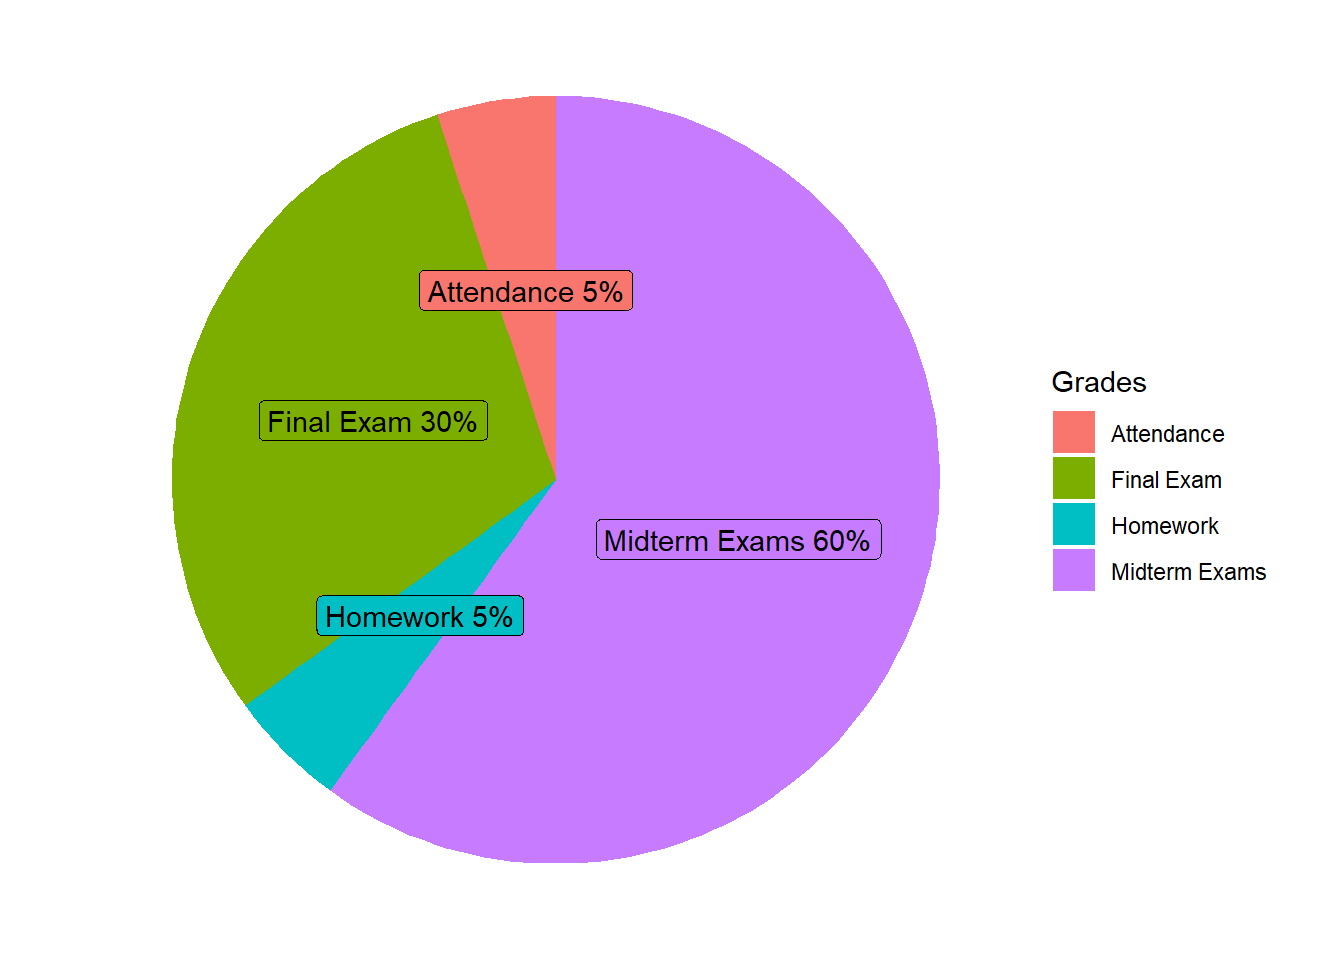
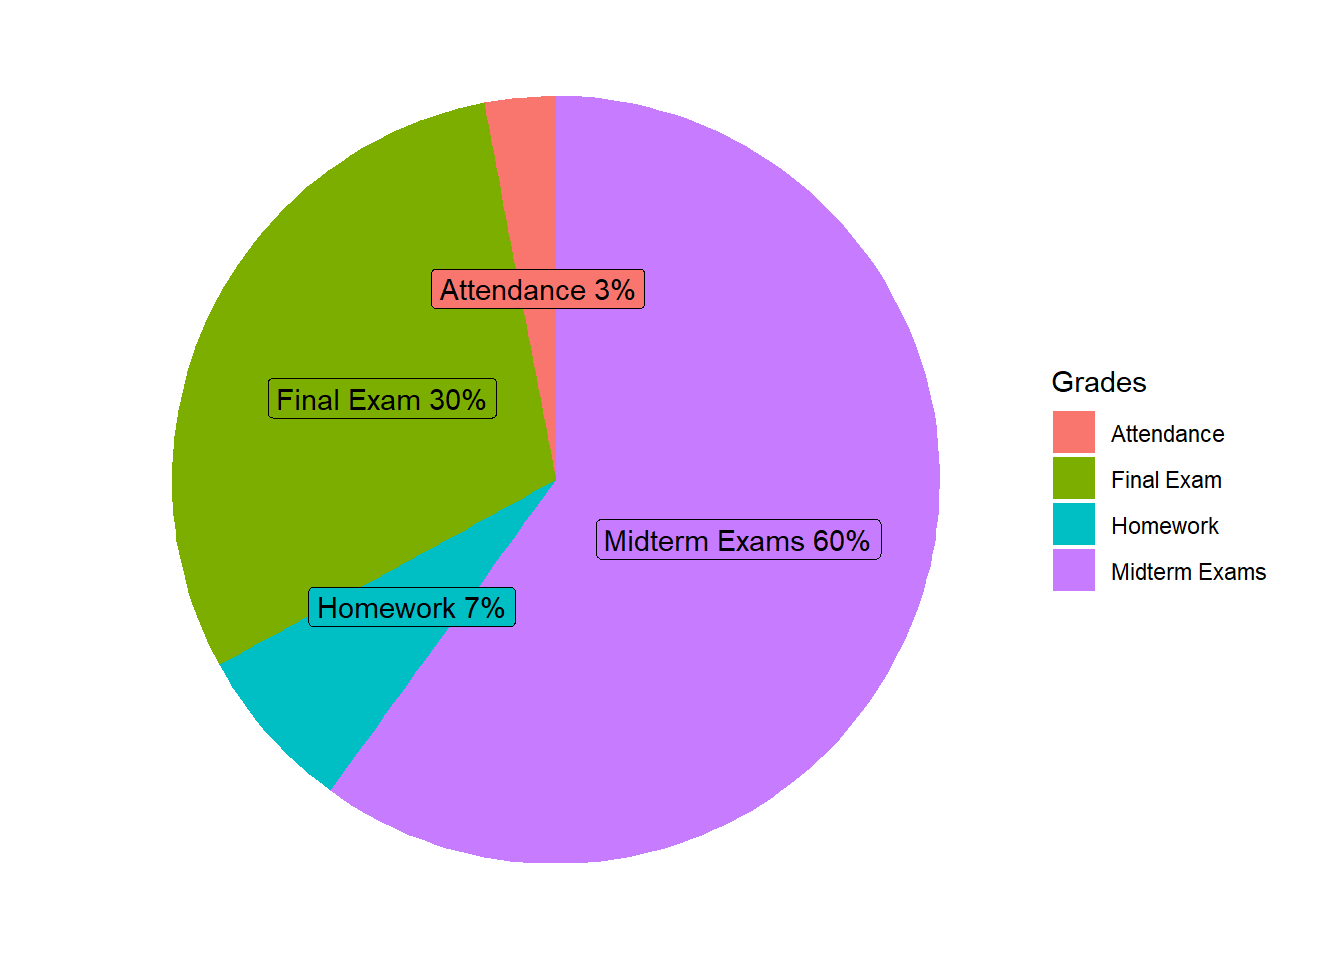
s

diff --git a/syllabus.html b/syllabus.html
@@ -51,9 +51,10 @@ ul.task-list li input[type="checkbox"] {
   <li><a href="#course-objectives" id="toc-course-objectives" class="nav-link" data-scroll-target="#course-objectives">Course Objectives</a></li>
   <li><a href="#grades" id="toc-grades" class="nav-link" data-scroll-target="#grades">Grades</a></li>
   <li><a href="#grades-scale" id="toc-grades-scale" class="nav-link" data-scroll-target="#grades-scale">Grades Scale</a></li>
+  <li><a href="#tentative-topics" id="toc-tentative-topics" class="nav-link" data-scroll-target="#tentative-topics">Tentative Topics</a></li>
+  <li><a href="#sustainable-development-goals" id="toc-sustainable-development-goals" class="nav-link" data-scroll-target="#sustainable-development-goals">Sustainable Development Goals</a></li>
   <li><a href="#academic-misconduct" id="toc-academic-misconduct" class="nav-link" data-scroll-target="#academic-misconduct">Academic Misconduct</a></li>
   <li><a href="#regarding-diversity" id="toc-regarding-diversity" class="nav-link" data-scroll-target="#regarding-diversity">Regarding Diversity</a></li>
-  <li><a href="#tentative-topics" id="toc-tentative-topics" class="nav-link" data-scroll-target="#tentative-topics">Tentative Topics</a></li>
   </ul>
 </nav>
 </div>
@@ -112,10 +113,10 @@ ul.task-list li input[type="checkbox"] {
 </div>
 </div>
 <ul>
-<li><p><em>Final Exam</em>: The final exam is comprehensive covering all the topics of the course. Formula sheets are allowed. Calculators with only basic calculations are allowed.</p></li>
-<li><p><em>Midterm Exams</em>: Tentatively, there are three Midterm exams, and each is worth 20% or 100 points. Formula sheets are allowed. Makeup exam will only be given to students who provide a valid written excuse BEFORE the date of the exam. The approved makeup exam should be taken no later than a week after the actual one. The grades posted on Blackboard are official, and permanent after a week they are posted.</p></li>
-<li><p><em>Homework</em>: The homework will be</p></li>
-<li><p><em>Attendance</em>: Attendance will be checked</p></li>
+<li><p><em>Final Exam</em>: The final exam is comprehensive covering all the topics of the course. The problems in the exam will be similar to those in the homework assignments. A formula sheet (1 page) is allowed. Calculators with only basic calculations are allowed.</p></li>
+<li><p><em>Midterm Exams</em>: Tentatively, there are three Midterm exams, and each is worth 20%. A formula sheet (1 page) is allowed. Makeup exam will only be given to students who provide a valid written excuse BEFORE the date of the exam. The approved makeup exam should be taken no later than a week after the actual one. The grades posted on Canvas are official, and permanent after a week they are posted. The problems in the exams will be similar to those in the homework assignments.</p></li>
+<li><p><em>Homework</em>: The homework assignment will be collected weekly through Canvas. You can type or hand-write and scan the homework then upload them to Canvas for grading. Completing all the problems of the homework will guarantee you at least 50% of the grades.</p></li>
+<li><p><em>Attendance</em>: Attendance will be checked regularly in class. The grade for attendance (3%) is usually enough to move up a letter grade. You are responsible for obtaining course material missed during an absence.</p></li>
 </ul>
 </section>
 <section id="grades-scale" class="level2">
@@ -171,14 +172,6 @@ ul.task-list li input[type="checkbox"] {
 </div>
 </div>
 </section>
-<section id="academic-misconduct" class="level2">
-<h2 class="anchored" data-anchor-id="academic-misconduct">Academic Misconduct</h2>
-<p>Cheating will result in an F as your final grade and may result in your expulsion from the University. All cheating will be reported to the Chair of the Mathematics Department and Academic Advising.</p>
-</section>
-<section id="regarding-diversity" class="level2">
-<h2 class="anchored" data-anchor-id="regarding-diversity">Regarding Diversity</h2>
-<p>In this course, and all your courses at Bryant, and throughout the Bryant learning community, we value and respect diversity. This includes differences in race, ethnicity, nationality, gender, gender identity, sexuality, socioeconomic status, ability, and religion.</p>
-</section>
 <section id="tentative-topics" class="level2">
 <h2 class="anchored" data-anchor-id="tentative-topics">Tentative Topics</h2>
 <ul>
@@ -188,6 +181,32 @@ ul.task-list li input[type="checkbox"] {
 <li>Chapter 4: Integration</li>
 <li>Chapter 5: Application of the definite Integral</li>
 </ul>
+</section>
+<section id="sustainable-development-goals" class="level2">
+<h2 class="anchored" data-anchor-id="sustainable-development-goals">Sustainable Development Goals</h2>
+<p>We will occasionally discuss and work with data related to the United Nation Sustainable Development Goals. These goals are called by the UN for action in a global partnership to provide peace and prosperity for people and the planet, now and into the future. Specifically, we will focus one of the following six SDGs:</p>
+<ul>
+<li><a href="https://www.globalgoals.org/goals/3-good-health-and-well-being/">SDG 3</a>: Good Health &amp; wellbeing<br>
+</li>
+<li><a href="https://www.globalgoals.org/goals/4-quality-education/">SDG 4</a>: Quality Education<br>
+</li>
+<li><a href="https://www.globalgoals.org/goals/8-decent-work-and-economic-growth/">SDG 8</a>: Decent Work and Economic Growth</li>
+<li><a href="https://www.globalgoals.org/goals/7-affordable-and-clean-energy/">SDG 7</a>: Affordable and Clean Energy<br>
+</li>
+<li><a href="https://www.globalgoals.org/goals/9-industry-innovation-and-infrastructure/">SDG 9</a>: Industry, Innovation, and Infrastructure<br>
+</li>
+<li><a href="https://www.globalgoals.org/goals/11-sustainable-cities-and-communities/">SDG 11</a>: Sustainable Cities and Communities</li>
+</ul>
+<p>You can learn more about the Sustainable Development Goals at: https://sdgs.un.org/goals</p>
+<p><a href="https://sdgs.un.org/goals">Sustainable Development Goals</a></p>
+</section>
+<section id="academic-misconduct" class="level2">
+<h2 class="anchored" data-anchor-id="academic-misconduct">Academic Misconduct</h2>
+<p>Cheating will result in an F as your final grade and may result in your expulsion from the University. All cheating will be reported to the Chair of the Mathematics Department and Academic Advising.</p>
+</section>
+<section id="regarding-diversity" class="level2">
+<h2 class="anchored" data-anchor-id="regarding-diversity">Regarding Diversity</h2>
+<p>In this course, and all your courses at Bryant, and throughout the Bryant learning community, we value and respect diversity. This includes differences in race, ethnicity, nationality, gender, gender identity, sexuality, socioeconomic status, ability, and religion.</p>
 </section>
 
 </main>

diff --git a/README.html b/README.html
@@ -354,7 +354,7 @@ display: none;
 
 <div id="math-121.-calculus-and-analytic-geometry-i" class="section level1">
 <h1>Math 121. Calculus and Analytic Geometry I</h1>
-<p><a href="m421syllabus.html">Syllabus</a></p>
+<p><a href="syllabus.html">Syllabus</a></p>
 <table>
 <colgroup>
 <col width="16%" />

diff --git a/README.md b/README.md
@@ -1,6 +1,6 @@
 # Math 121. Calculus and Analytic Geometry I 
 
-[Syllabus](m421syllabus.html) 
+[Syllabus](syllabus.html) 
 
 | Date        | Section/Topic                  | Notes    |Homework     |
 |:------------|:------------|:------------|:-------------------------------------|
